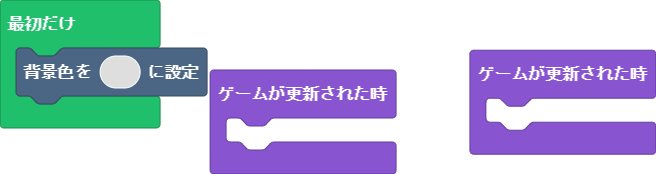
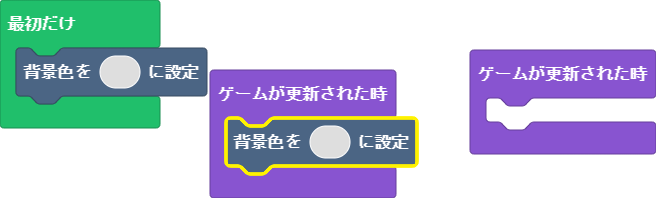
更新 main.blocks, main.ts

diff --git a/main.ts b/main.ts
@@ -3,5 +3,5 @@ game.onUpdate(function () {
 	
 })
 game.onUpdate(function () {
-	
+    scene.setBackgroundColor(0)
 })
